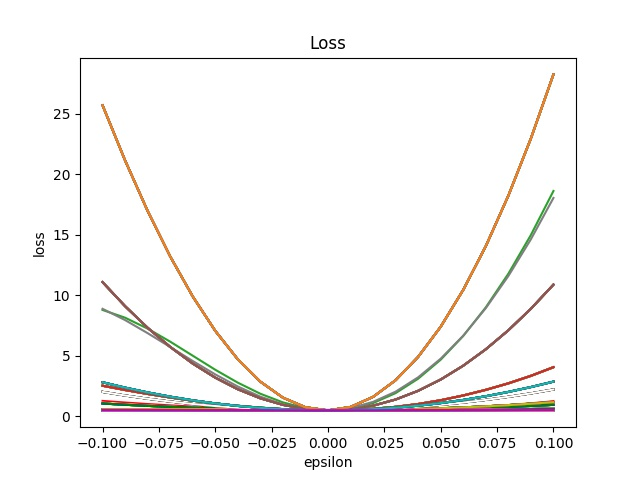
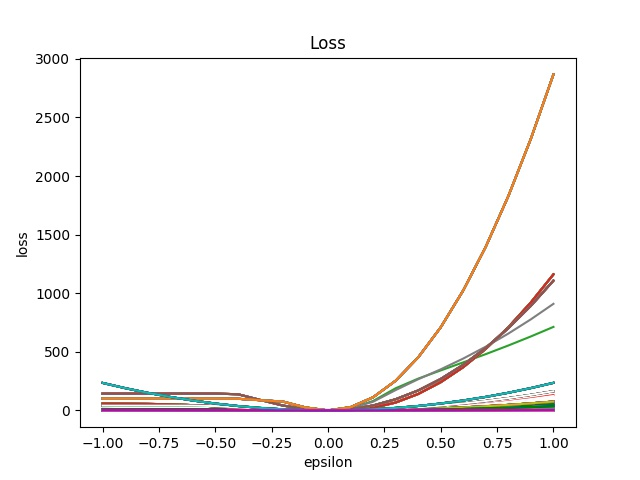
dkf

diff --git a/hw1/1-2/1-2-bonus/plot2.py b/hw1/1-2/1-2-bonus/plot2.py
@@ -20,7 +20,7 @@ color=['C0', 'C1', 'C2', 'C3', 'C4', 'C5', 'C6', 'C7', 'C8', 'C9','b', 'g', 'r',
 dm.get_data('train',batch_size)
 dnn= DNN().cuda()
 dnn.load(args.model)
-epsilon=torch.linspace(-0.1,0.1,21)
+epsilon=torch.linspace(-1,1,21)
 y=dm.small_range_loss(dnn,epsilon)
 print(y)
 
